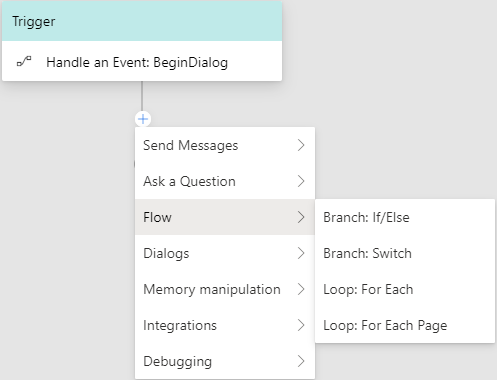
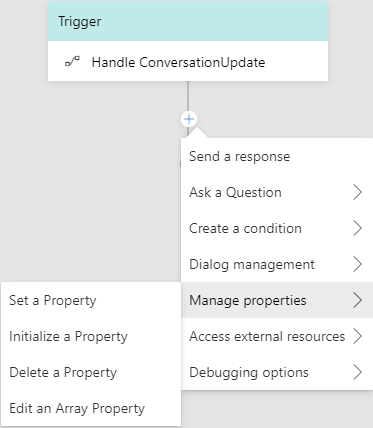
update-dialog-draft

diff --git a/docs/concept-dialog-draft.md b/docs/concept-dialog-draft.md
@@ -2,10 +2,9 @@
 
 In Bot Framework Composer, dialogs are functional components offered in a visual interface and does not require you to write code. The dialog system supports building a pluggable and extensible model that integrates building blocks of bot functionality. Dialogs help users focus on conversation modeling rather than the mechanics of dialog management.
 
-[Note:] The dialog system in Bot Framework Composer is based on [Adaptive Dialogs](https://github.com/Microsoft/BotBuilder-Samples/tree/master/experimental/adaptive-dialog#readme). 
+>[!NOTE]
+> The dialog system in Bot Framework Composer is based on [Adaptive Dialogs](https://github.com/Microsoft/BotBuilder-Samples/tree/master/experimental/adaptive-dialog#readme). 
  
-  
-
 ## Types of dialogs  
 There are two types of dialogs: 
 - main dialog
@@ -16,16 +15,12 @@ You create a dialog in the Bot Framework Composer to manage a conversation objec
 - create child dialogs 
 - filter dialogs
 
-<p align="left">
-    <img alt="dialogs" src="./media/dialog/test.gif" style="max-width:500px;" />
-</p>
-
-<!-- ![dialogs](./media/dialog/dialogs.gif) -->
+![create_dialogs](./media/dialog/test.gif)
 
 At runtime, the main dialog is called into action and becomes the active dialog, triggering event handlers with pre-defined actions. As the conversation flows, a child dialog can be called by a main dialog, and vice versa. Different child dialogs can be called with each other as well. 
 
 ## Anatomy of a dialog 
-A dialog contains a set of event handlers. Triggers are event handlers that can be triggered to handle different events. Currently, Bot Framework Composer provides five different types of triggers in a dialog: `Handle an Intent`, `Handle Unknown Intent`, `Handle a Dialog Event`, `Handle an Event: Activity`, and `Handle a Custom Event`.
+A dialog contains a set of event handlers. Triggers are event handlers that can be triggered to handle different events. Currently, Bot Framework Composer provides five different types of triggers in a dialog: `Handle an Intent`, `Handle Unknown Intent`, `Handle a Dialog Event`, `Handle an Event: Activity`, and `Handle a Custom Event`. 
 
 Most dialogs contain an event handler configured to respond to the `BeginDialog` event. Inside the `BeginDialog` event are actions that should fire immediately every time the dialog starts. For more information, see [events and triggers](https://github.com/microsoft/BotFramework-Composer/blob/kaiqb/Ignite2019/docs/concept-events-and-triggers-draft.md).
 
@@ -38,11 +33,11 @@ Usually when a dialog is called into action, its **recognizer** will start to pr
 > [!NOTE]
 > **Recognizers** provide the functionality of understanding and extracting meaningful pieces of information from a user's input. All recognizers emit events when the recognizer picks up an intent (or extracts entities) from a given user utterance. **Recognizer** of a dialog is not always called into play when a dialog is called. It is a matter of how you design and model your dialog system.   
 
-Event handlers contain a series of actions that the bot will undertake to fulfill a user's request. Bot Framework Composer offers a wide range of action components such as `Send Messages` for sending messages and `Ask a Question` for prompts / asking questions. Users can also add branchs and loops when designing their dialog path using the `Flow` component, or use `Memory Manipulation` for setting properties and [memory use](https://github.com/microsoft/BotFramework-Composer/blob/kaiqb/Ignite2019/docs/concept-memory-draft.md). 
+Event handlers contain a series of actions that the bot will undertake to fulfill a user's request. Bot Framework Composer offers a wide range of action components such as `Send a response` for sending text messages and `Ask a Question` for prompts / asking questions. Users can also add branchs and loops when designing their dialog system using the `Create a condition` action, or use `Manage properties` for setting properties and memory use in [Conversation flow](https://github.com/microsoft/BotFramework-Composer/blob/kaiqb/Ignite2019/docs/concept-memory-draft.md). 
 
 ![actions](./media/dialog/actions.png)
 
-As the bot takes actions and sends messages, the **language generator** is called into play. It generates messages from variables and templates and sends them back to the user. Language generators can be used to create reusable components, variable messages, macros, and dynamic messages that are grammatically correct. The following diagram shows the anatomy of a dialog in Bot Composer. 
+As the bot takes actions and sends messages, the **language generator** is called into play. It generates messages from variables and templates and sends them back to the user. Language generators can be used to create reusable components, variable messages, and dynamic messages that are grammatically correct. The following diagram shows the anatomy of a dialog in Bot Composer. 
 
 <p align="left">
     <img alt="Open samples" src="./media/dialog/DialogAnatomy.png" style="max-width:780px;" />
@@ -53,30 +48,76 @@ As the bot takes actions and sends messages, the **language generator** is calle
 ## Use Dialogs
 
 ### Create a dialog 
-Coming soon.
+
+When you create a bot you create the main dialog by default. To create a bot project, please follow the steps:
+
+1. On the left side of the Composer home screen, click `New` from the upper left corner. After you see the pop-up window, select "Create from scratch" and click `Submit`. 
+
+![create_new_bot](./media/dialog/create_new_bot.png) 
+
+Alternatively, on the home screen you can click the "+" sign in the `New` block under the "Start from scratch" section. 
+
+![create_new_bot2](./media/dialog/create_new_bot2.png)
+
+2. On the pop-up window give a name for your bot then fill in some brief description and click `Next`. You can leave the `Localtion` field as is at this time. 
+
+![define_new_bot](./media/dialog/define_new_bot.png)
+
+3. When your bot is created successfully you will see a **.Main** dialog in the dialog navigation pane. Congradulations! You have created your first bot using Composer and the main dialog in the bot. 
+
+![main_dialog](./media/dialog/main_dialog.png)
+
+> [!NOTE]
+> As you may notice, after you create a bot a `Handle ConversationUpdate` trigger will be created by default as well. It is a trigger to handle activities such as sending a welcome message. For details please read the [events and triggers](https://github.com/microsoft/BotFramework-Composer/blob/kaiqb/Ignite2019/docs/concept-events-and-triggers-draft.md) article and how to [define triggers](https://github.com/microsoft/BotFramework-Composer/blob/kaiqb/Ignite2019/docs/howto-defining-triggers.md) article. 
 
 ### Add a dialog 
-Coming soon.
 
-### Dialog actions
+After you create a bot, you are creating a main dialog by default. The main dialog is like the brain of our bot, controlling and managing the dialog system. Sometimes we find it useful to create a child dialog that contains a chunck of functionality so that our dialog system is organized and easily managed. Let's walk through a very simple example to show how to create a child dialog and wire it up with the main dialog. 
 
-A Dialog acts like a piece of the bot's functionality such as [**GetProfile**](https://github.com/microsoft/BotFramework-Composer/tree/master/SampleBots/Interrupt) to fulfill user's request. A bot will have a few dialogs or even dozens of hundres of individual dialogs and it is a big challenge to manage the dialog system and the conversation with user. Bot Composer offers a set of built-in action components to simplify sophisticated converesation modelling process so that users can build a pluggable and extensible dialog system without worrying about the mechanics of dialog management. 
+1. Create a new dialog. Click `New Dialog` on the navigation pane. On the pop-up window give a name for the new dialog and optionally fill in the description and then click `Next`. Then you will see an empty dialog you created on the nevigation pane. 
+
+2. Define a trigger in the new dialog. Click `New Trigger` under the new dialog and select a type of trigger you want to define. Triggers are event handlers that handle pre-define actions. See details in the [events and triggers](https://github.com/microsoft/BotFramework-Composer/blob/kaiqb/Ignite2019/docs/concept-events-and-triggers-draft.md) article. Let's add a `Handle ConversationUpdate` trigger to the new dialog and then define a response action with "The weather dialog is called with success!"
+
+![send_response](./media/dialog/send_response.png)
+
+3. Wire up the new dialog. Click the "+" sign under `Handle ConversationUpdate` trigger and then select `Dialog management` and then `Begin a new dialog`. `Begin a new dialog` is a dialog action that begins a dialog. 
+
+![begin_dialog_action](./media/dialog/begin_dialog_action.png)
+
+Now in the property editor on the right side select the dialog you want to wire up to this `Begin a new dialog` action from the drop-down menu or create a new one from here. Then you will see the name of the new dialog appear in the `Begin a new dialog` action node. 
+
+![wire_up_dialog](./media/dialog/wire_up_dialog.png)
+
+When the bot runs, the pattern of this simple design is as follows: 
+- The main dialog `MyBot.Main` is called at bot runtime
+- The `Handle ConversationUpdate` trigger in the main dialog is activated and followed by the `Begin a new dialog` action which is defined to begin the `Weather` dialog. 
+- When the `Weather` dialog becomes an active dialog, the `Handle ConversationUpdate` trigger in the child dialog is triggered and send the response "The weather dialog is called with success!" to users. 
+  
+You can test the result by clicking the `Start` button on the upper corner and then click `Test in Emulator`. You should be able to see the following result in the emulator: 
+
+![test_emulator](./media/dialog/test_emulator.png)
+
+### Dialog actions 
+
+A bot will have a few dialogs or even dozens of hundres of individual dialogs and it is a big challenge to manage the dialog system and the conversation with user. In the previous "Add a dialog" section, we cover how to create a child dialog and wire it up to the dialog system using `Begin a new dialog`. In fact, Bot Framework Composer provides more dialog actions to make it easier for us to manage our dialog system. 
+
+You can access the different dialog actions by clicking the "+" node after a trigger and then select `Dialog management`.  
 
 ![dialog_action](./media/dialog/dialog_action.png)
 
 <!-- We might need a how-to article documenting how to use each type of the dialog actions.  -->
 
-Below is a list of all the Dialog actions provided in Composer. 
+Below is a list of the dialog actions provided in Bot Framework Composer. 
 
 | Dialog Action        | Description                                                                                                                      |
 | -------------------- | -------------------------------------------------------------------------------------------------------------------------------- |
 | Begin a new dialog       | An action that begins another dialog. When that dialog is completed, it will return to the caller.                                 |
-| End this dialog           | A command that ends the current dialog, returning the `resultProperty` as the result of the dialog.                             |
+| End this dialog           | A command that ends the current dialog, returning the `resultProperty` as the result of the dialog.    |
 | Cancel all dialogs   | A command to cancel all of the current dialogs by emitting an event that must be caught to prevent cancelation from propagating |
-| End Dialog turn        | A command to end the current turn without ending the dialog.                                                                     |
+| End this turn      | A command to end the current turn without ending the dialog.                                                                     |
 | Repeat this Dialog   | An action that repeats the current dialog with the same dialog.                                                                 |
-| Replace this Dialog  | An action that replaces the current dialog with the target dialog.                                                              |
-
+| Replace this Dialog  | An action that replaces the current dialog with the target dialog.                                                                      |
+With these dialog actions, we can easily build a pluggable and extensible dialog system without worrying about the mechanics of dialog management. 
 
 ## References 
 [Dialogs library](https://docs.microsoft.com/en-us/azure/bot-service/bot-builder-concept-dialog?view=azure-bot-service-4.0)
